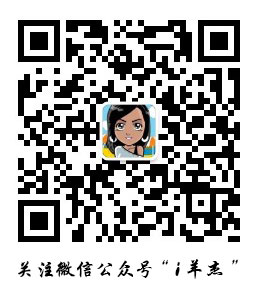
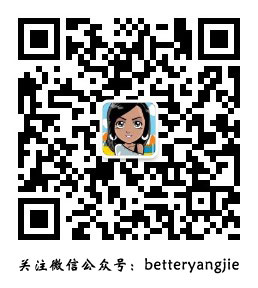
2

diff --git a/about.html b/about.html
@@ -2,7 +2,7 @@
 <html lang="en-us">
   <head>
     <meta charset="UTF-8">
-    <title>羊杰的个人网站</title>
+    <title>yangjie的个人网站</title>
     <meta name="viewport" content="width=device-width, initial-scale=1">
     <link rel="stylesheet" type="text/css" href="stylesheets/normalize.css" media="screen">
     <link rel="stylesheet" type="text/css" href="stylesheets/stylesheet.css" media="screen">
@@ -11,13 +11,13 @@
   <body>
     <div class="container aboutme">
       <div class="header">
-        <a href="/" aria-label="回到羊杰首页导航">羊杰的个人网站</a> <font aria-hidden="true">» 关于我</font>
+        <a href="/" aria-label="回到yangjie首页导航">yangjie的个人网站</a> <font aria-hidden="true">» 关于我</font>
       </div>
       <div>
         <strong class="title">关于我<span> <font aria-hidden="true" tabindex="0">/ About Me</font></span></strong>
         <div>
-          <a class="site-avatar" href="#"><img src="images/icon.jpg" height="100" width="100" alt="羊杰" style="cursor: zoom-in;"></a>
-          <p>羊杰，女程序员一枚，从业N年，开始主要专注于Java后端开发，随着Web前端开发的兴起，逐渐投身前端开发的世界。</p>
+          <a class="site-avatar" href="#"><img src="images/icon.jpg" height="100" width="100" alt="yangjie" style="cursor: zoom-in;"></a>
+          <p>yangjie，女程序员一枚，从业N年，开始主要专注于Java后端开发，随着Web前端开发的兴起，逐渐投身前端开发的世界。</p>
           <p>非计算机专业出身，计算机基础功底非常薄弱，距离大牛的距离还有一个宇宙那么遥远。自觉IQ不足，所以只能依靠勤奋弥补。</p>
           <p>回想近十年的时光，发现互联网已经改变了我们的世界，以后的日子里，将给予我们更多的改变。希望自己在接下来的时间里，能为即将到来的改变贡献一份自己的力量。</p>
         </div>
@@ -47,10 +47,10 @@
         <div>
           <ul>
             <li>Github：
-              <a href="https://github.com/kuailexiangrikui" target="_blank">@kuailexiangrikui</a>
+              <a href="https://github.com/betteryangjie" target="_blank">@betteryangjie</a>
             </li>
             <li>E-mail：
-              <a href="mailto:408172509@qq.com" target="_blank">408172509@qq.com</a>
+              <a href="mailto:betteryangjie@qq.com" target="_blank">betteryangjie@qq.com</a>
             </li>
           </ul>
         </div>

diff --git a/index.html b/index.html
@@ -2,7 +2,7 @@
 <html lang="en-us">
   <head>
     <meta charset="UTF-8">
-    <title>羊杰的个人网站</title>
+    <title>yangjie的个人网站</title>
     <meta name="viewport" content="width=device-width, initial-scale=1">
     <link rel="stylesheet" type="text/css" href="stylesheets/normalize.css" media="screen">
     <link rel="stylesheet" type="text/css" href="stylesheets/stylesheet.css" media="screen">
@@ -11,21 +11,21 @@
   <body>
       <div class="home-box">
         <h2 title="For Future, For Freedom." id="indexLogo">
-          羊杰的个人网站
-          <a aria-hidden="true" href="/blog/"><img src="images/icon.jpg" alt="羊杰"></a>
+          yangjie的个人网站
+          <a aria-hidden="true" href="/blog/"><img src="images/icon.jpg" alt="yangjie"></a>
         </h2>
         <p>
           <font aria-hidden="true">»</font>
           <a href="/" aria-label="回到主页">主页</a> <font aria-hidden="true">/</font>
           <a href="/blog/" aria-label="点击查看博客文章列表">博客</a> <font aria-hidden="true">/</font>
-          <a href="/about.html" aria-label="查看羊杰的个人信息">关于我</a>
+          <a href="/about.html" aria-label="查看yangjie的个人信息">关于我</a>
         </p>
         <p>
           <font aria-hidden="true">»</font>
-          <i class="icon" title="Github"><a href="https://github.com/kuailexiangrikui" target="_blank" aria-label="羊杰的 Github 地址">☃</a></i>
-          <i class="icon" title="Wechat"><a href="images/follow.jpg" target="_blank" aria-label="羊杰的微信二维码地址"></a></i>
-          <i class="icon" title="Sina Weibo"><a href="http://weibo.com/2132610047" target="_blank" aria-label="羊杰的新浪微博地址">博</a></i>
-          <i class="icon" title="Rss"><a href="/blog/rss2.xml" target="_blank" aria-label="羊杰的博客文章订阅地址">◈</a></i>
+          <i class="icon" title="Github"><a href="https://github.com/betteryangjie" target="_blank" aria-label="yangjie的 Github 地址">☃</a></i>
+          <i class="icon" title="Wechat"><a href="images/follow.jpg" target="_blank" aria-label="yangjie的微信二维码地址"></a></i>
+          <i class="icon" title="Sina Weibo"><a href="http://weibo.com/2132610047" target="_blank" aria-label="yangjie的新浪微博地址">博</a></i>
+          <i class="icon" title="Rss"><a href="/blog/rss2.xml" target="_blank" aria-label="yangjie的博客文章订阅地址">◈</a></i>
         </p>
       </div>
   </body>
